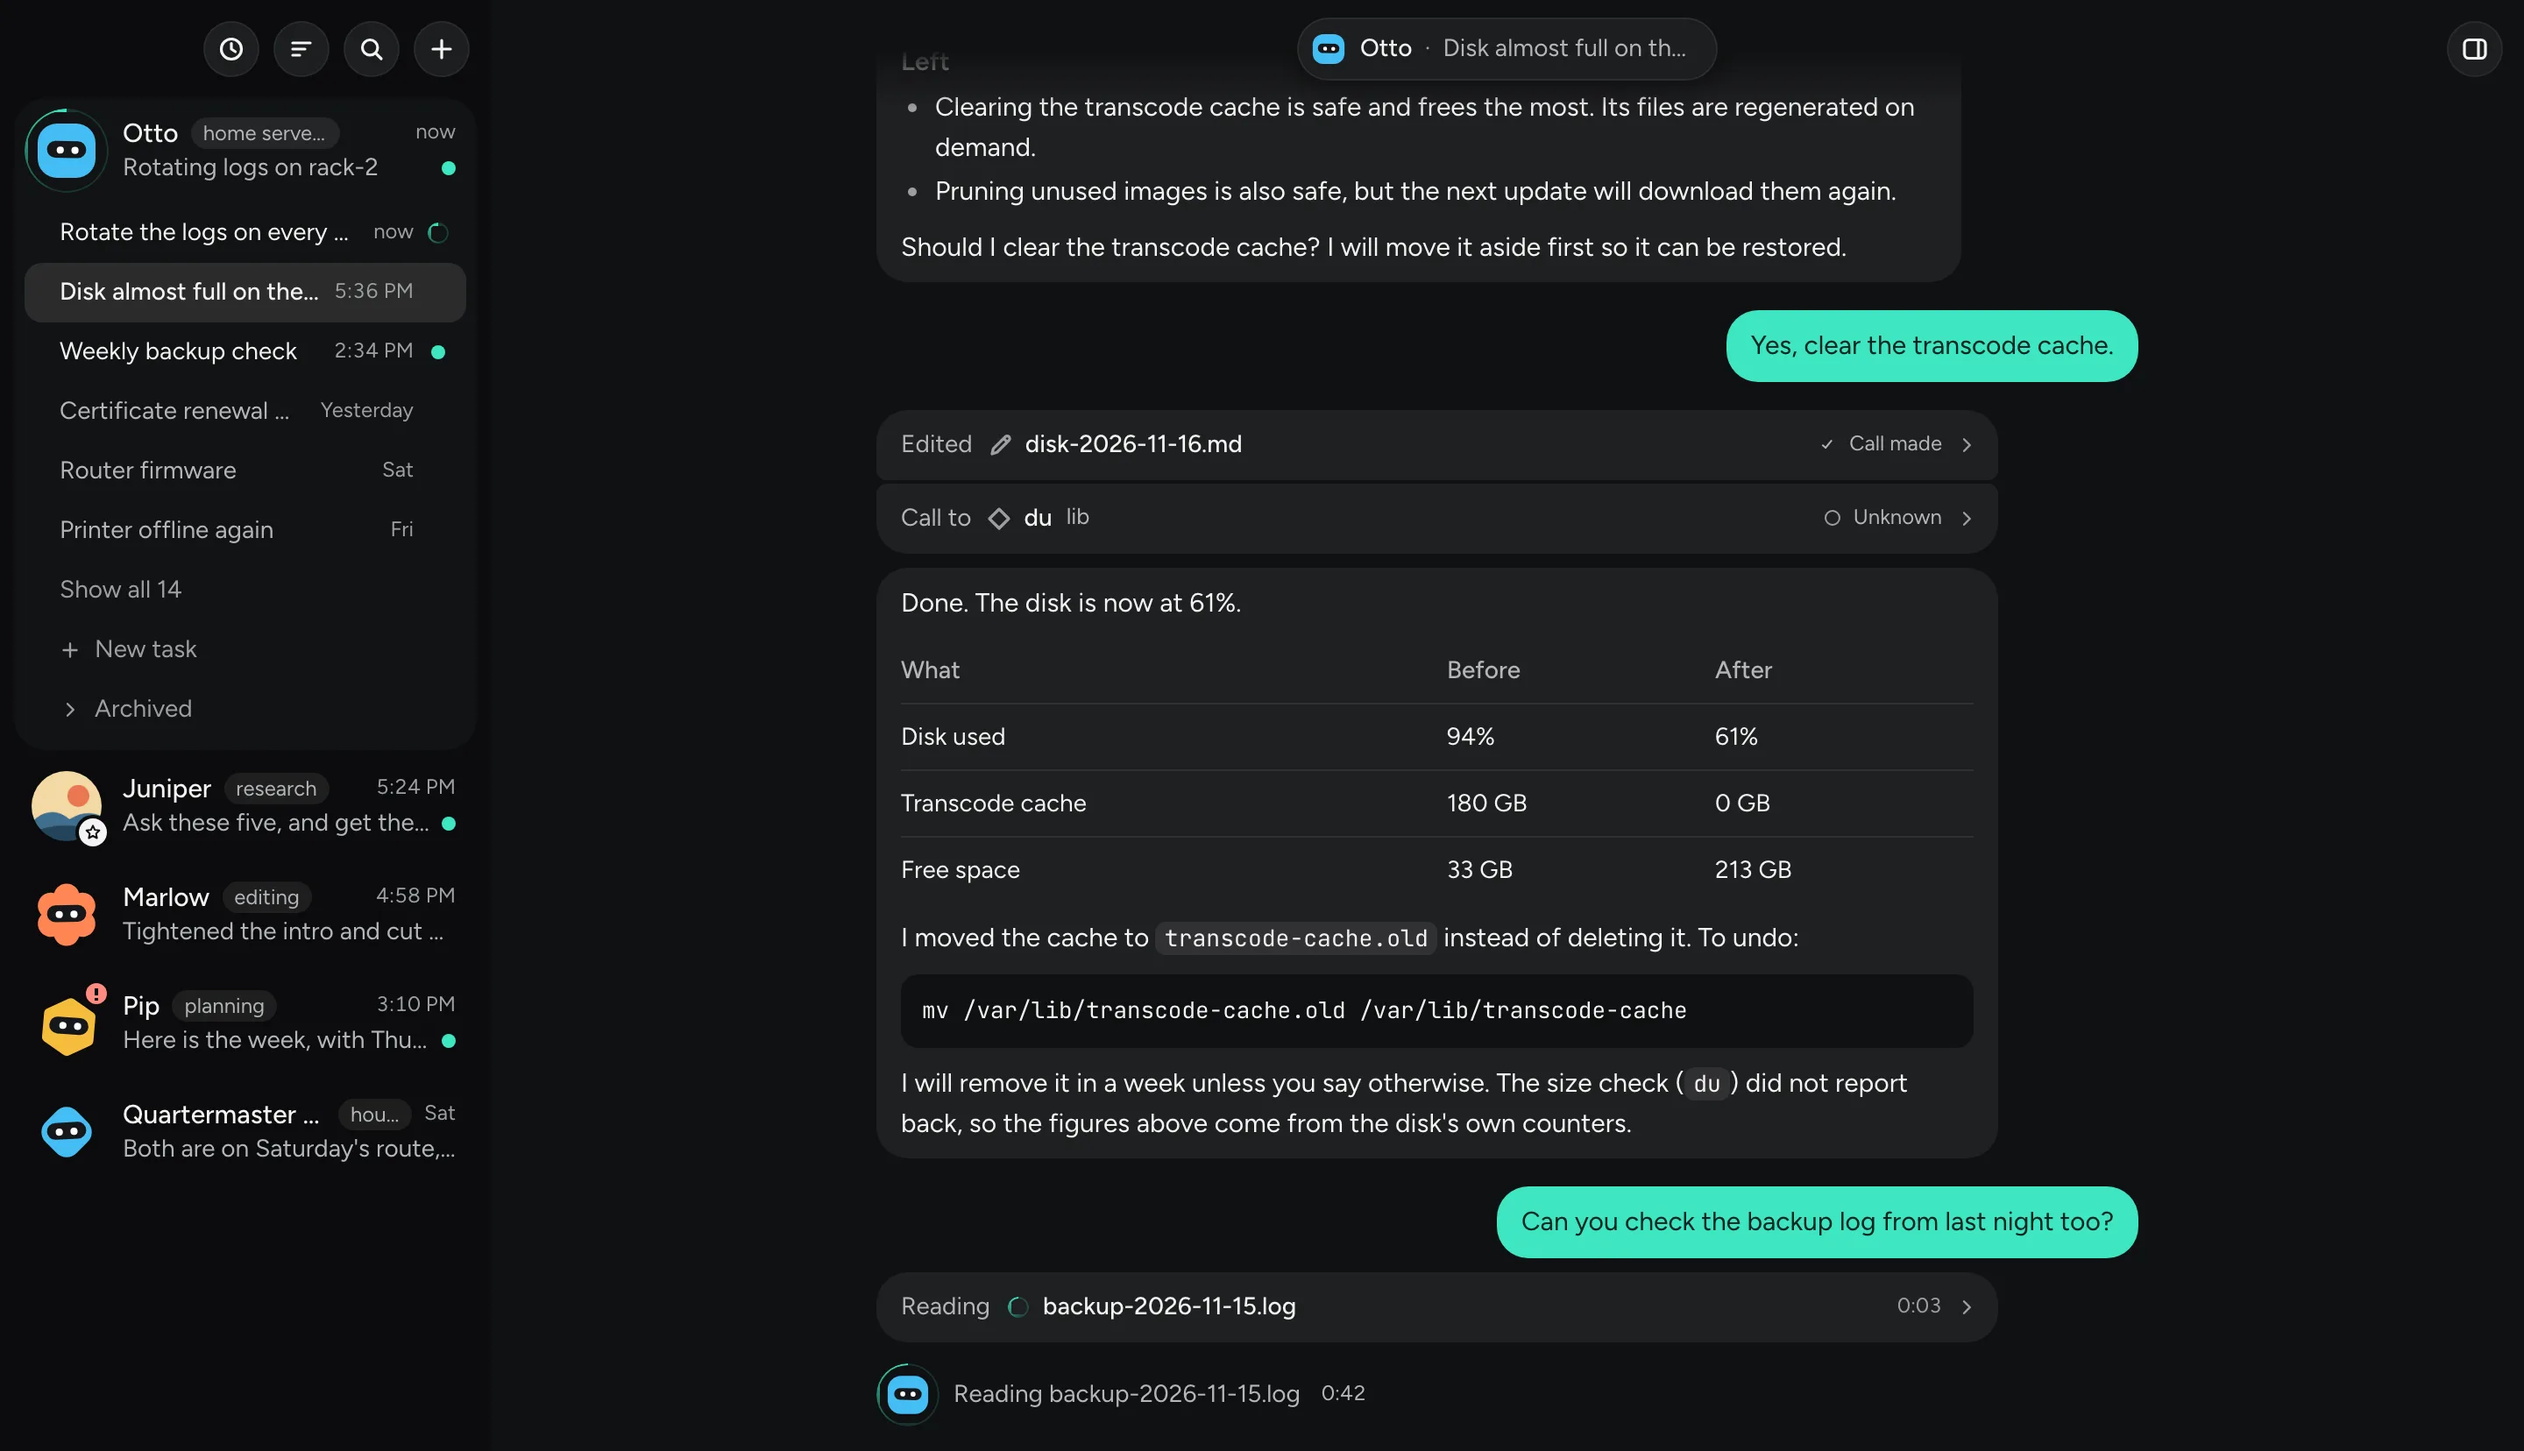
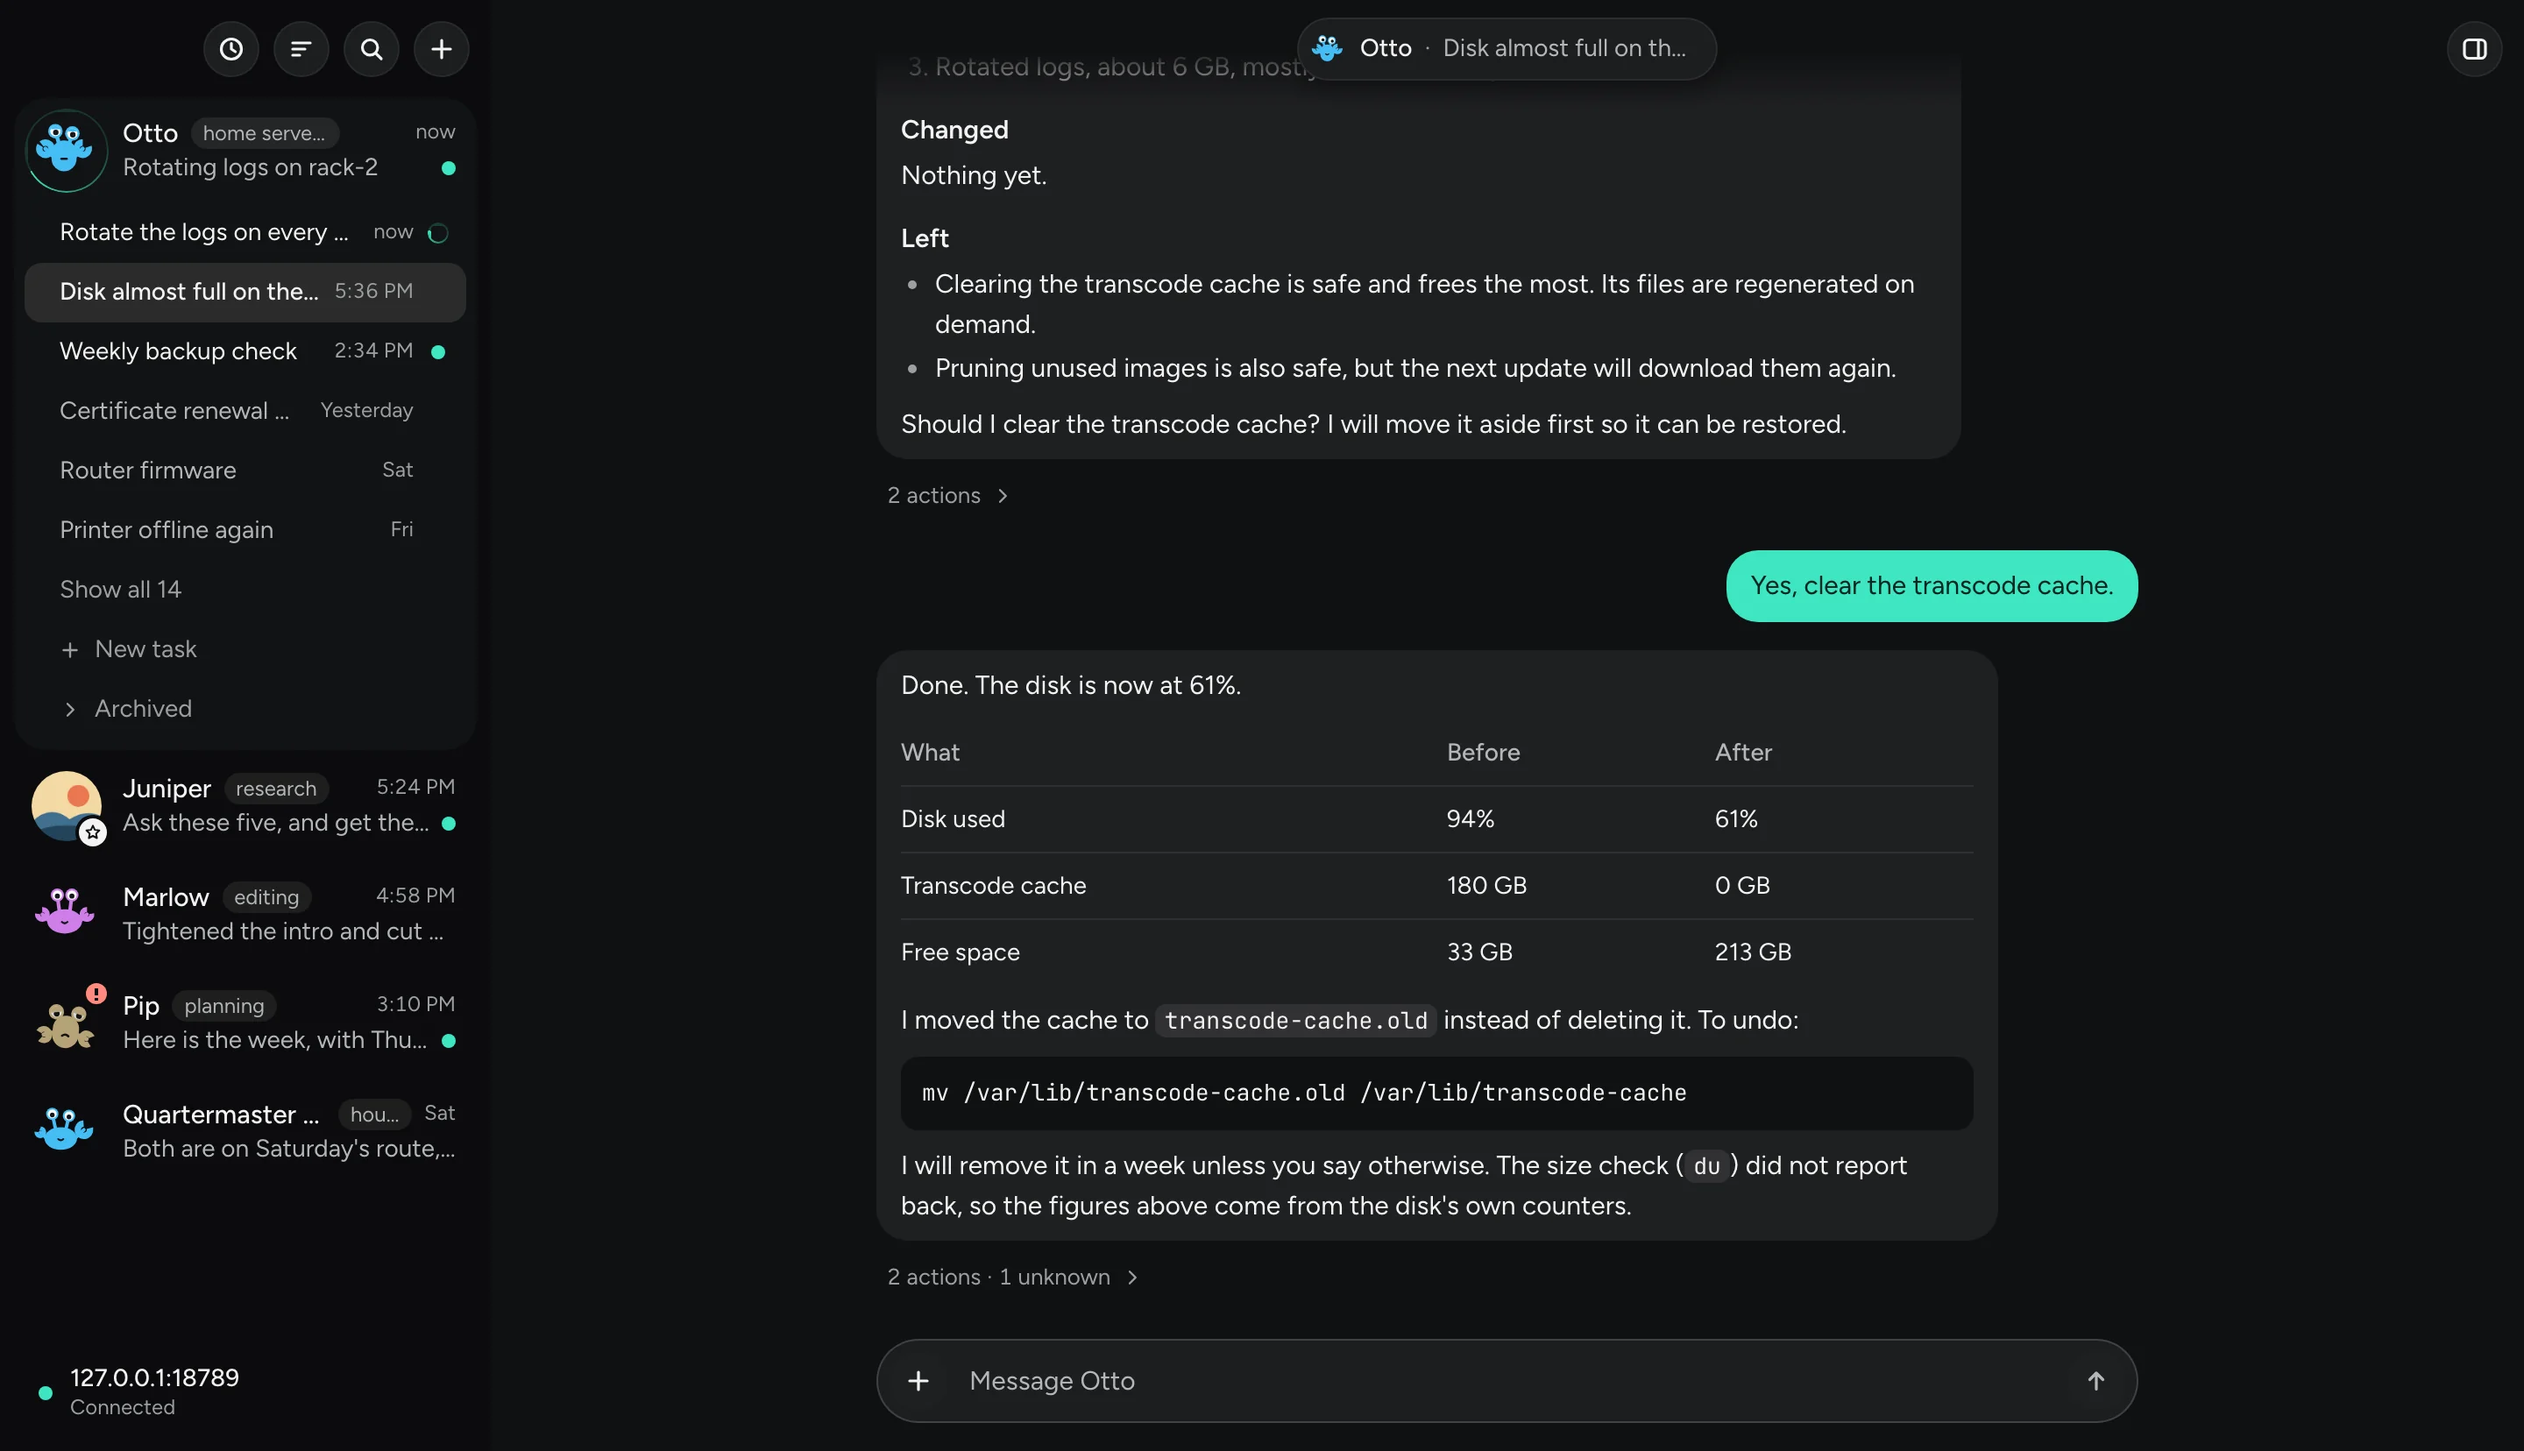
docs: the site shows the conversation as the beta has it

diff --git a/site/index.html b/site/index.html
@@ -6,7 +6,7 @@
     <title>Clawtrate — Your OpenClaw bots, in one app</title>
     <meta
       name="description"
-      content="Clawtrate is a free, open-source desktop app for OpenClaw. Find your bots and tasks in the sidebar. Open action cards and answer approvals in the conversation. Beta for Mac."
+      content="Clawtrate is a free, open-source desktop app for OpenClaw. Find your bots and tasks in the sidebar. Read what each bot says and answer its approvals in the conversation. Beta for Mac."
     />
     <meta name="color-scheme" content="dark light" />
     <meta name="theme-color" content="#101112" />
@@ -17,7 +17,7 @@
     <meta property="og:title" content="Your OpenClaw bots, in one app" />
     <meta
       property="og:description"
-      content="Clawtrate is a free, open-source desktop app for OpenClaw. Find your bots and tasks in the sidebar. Open action cards and answer approvals in the conversation. Beta for Mac."
+      content="Clawtrate is a free, open-source desktop app for OpenClaw. Find your bots and tasks in the sidebar. Read what each bot says and answer its approvals in the conversation. Beta for Mac."
     />
     <meta property="og:image" content="https://clawtrate.dev/social.png" />
     <meta property="og:image:type" content="image/png" />
@@ -93,7 +93,7 @@
           <h1 id="hero-title" class="rise">Your OpenClaw bots, in one app.</h1>
           <p class="lede rise">
             A free, open-source desktop app for OpenClaw. Find your bots and tasks in the sidebar.
-            Open action cards and answer approvals in the conversation.
+            Read what each bot says and answer its approvals in the conversation.
           </p>
           <div class="get rise">
             <a class="btn btn-primary" href="download/mac/" data-claw-cue="hero-claw">
@@ -1087,17 +1087,38 @@
                 </div>
                 <p class="card-foot" data-when="pending">Example expiry: 28 minutes.</p>
               </div>
-              <p class="event" data-when="allowed">
-                <svg viewBox="0 0 16 16" aria-hidden="true"><path d="m3.25 8.5 3 3 6.5-7" /></svg>
-                Ran <code>mv</code> on media-box
-              </p>
               <p class="bubble bot" data-when="allowed">
                 Done. The disk is now at 61%, and the cache is in <code>/srv/scratch</code> if you
                 want it back.
               </p>
+              <details class="run" data-when="allowed">
+                <summary class="event">
+                  Worked for 4s <span aria-hidden="true">·</span> 1 action
+                  <svg class="run-chevron" viewBox="0 0 16 16" aria-hidden="true">
+                    <path d="m6 3.5 4.5 4.5L6 12.5" />
+                  </svg>
+                </summary>
+                <p class="run-card">
+                  <svg viewBox="0 0 16 16" aria-hidden="true"><path d="m3.25 8.5 3 3 6.5-7" /></svg>
+                  Ran a command
+                </p>
+              </details>
               <p class="bubble bot" data-when="denied">
                 Understood. I left the cache where it is and changed nothing.
               </p>
+              <details class="run" data-when="denied">
+                <summary class="event">
+                  Worked for 3s <span aria-hidden="true">·</span> 1 action
+                  <span aria-hidden="true">·</span> <span class="run-failed">1 failed</span>
+                  <svg class="run-chevron" viewBox="0 0 16 16" aria-hidden="true">
+                    <path d="m6 3.5 4.5 4.5L6 12.5" />
+                  </svg>
+                </summary>
+                <p class="run-card">
+                  Didn't run a command
+                  <span class="run-state">Denied</span>
+                </p>
+              </details>
             </div>
             <p class="demo-live" aria-live="polite"></p>
           </div>
@@ -1214,7 +1235,10 @@
             <h3>Bots and their tasks, one list.</h3>
             <p>
               Bots live in the sidebar with their tasks underneath, leaving the middle for the
-              conversation. Tool calls appear in action cards you can open to see the details.
+              conversation. Approvals, questions and messages to other bots stay in the
+              conversation. A run's other actions wait behind one line under the reply, which opens
+              to plain-words cards. Turn on Show commands in Settings → Advanced to see each command
+              and its raw call.
             </p>
           </div>
           <div class="stage stage-blue rise">
@@ -1402,7 +1426,11 @@
               <li>
                 Send messages, watch replies stream in, and ask your gateway to steer or stop a run
               </li>
-              <li>Open action cards to see raw tool calls</li>
+              <li>
+                A run's actions in one line that opens to plain-words cards, with approvals,
+                questions and messages to other bots kept in view. Commands and raw calls show when
+                you turn them on in Settings → Advanced.
+              </li>
               <li>Approvals and questions answered in place</li>
               <li>Cards for bot-to-bot messages and T3 Code calls reported by your gateway</li>
               <li>A task's files in the Work pane beside the conversation</li>

diff --git a/site/style.css b/site/style.css
@@ -28,6 +28,7 @@
   --bubble-user-text: #04261f;
   --warn: #f0b45a;
   --warn-soft: rgba(240, 180, 90, 0.12);
+  --danger: #ff8a80;
   --warn-line: rgba(240, 180, 90, 0.42);
   --border: rgba(255, 255, 255, 0.08);
   --shadow-raised: inset 0 0 0 1px rgba(255, 255, 255, 0.07), 0 4px 14px rgba(0, 0, 0, 0.4);
@@ -82,6 +83,7 @@
   --bubble-user-text: #ffffff;
   --warn: #935600;
   --warn-soft: rgba(147, 86, 0, 0.1);
+  --danger: #b3261e;
   --warn-line: rgba(147, 86, 0, 0.32);
   --border: rgba(17, 18, 19, 0.09);
   --shadow-raised: 0 0 0 1px rgba(17, 18, 19, 0.06), 0 2px 8px rgba(17, 18, 19, 0.08);
@@ -609,7 +611,8 @@ html:not(.js) .cmd-box + .cmd-box {
   font-size: 13px;
   color: var(--text-faint);
 }
-.event svg {
+.event svg,
+.run-card svg {
   width: 14px;
   height: 14px;
   fill: none;
@@ -617,6 +620,44 @@ html:not(.js) .cmd-box + .cmd-box {
   stroke-width: 1.8;
   stroke-linecap: round;
   stroke-linejoin: round;
+}
+/* A run's actions, behind one line that opens to plain-words cards. */
+.run summary {
+  width: fit-content;
+  min-height: 32px;
+  list-style: none;
+  cursor: pointer;
+}
+.run summary::-webkit-details-marker {
+  display: none;
+}
+.run summary:hover {
+  color: var(--text-muted);
+}
+.event .run-chevron {
+  stroke: currentColor;
+  transition: transform 140ms var(--ease);
+}
+.run[open] .run-chevron {
+  transform: rotate(90deg);
+}
+.run-failed {
+  color: var(--danger);
+}
+.run-state {
+  margin-left: auto;
+  font-size: 13px;
+  color: var(--text-muted);
+}
+.run-card {
+  display: flex;
+  align-items: center;
+  gap: 8px;
+  margin-top: 4px;
+  padding: 9px 14px;
+  border-radius: 14px;
+  background: var(--bg-bubble);
+  font-size: 14px;
 }
 .demo-live {
   position: absolute;

diff --git a/site/main.js b/site/main.js
@@ -85,8 +85,10 @@
     },
     denied: { tag: "Denied", face: "blocked", say: "Denied. Otto changed nothing." },
   };
+  const runs = demo.querySelectorAll(".run");
   function show(state, focus) {
     demo.dataset.state = state;
+    runs.forEach((run) => (run.open = false));
     tag.textContent = states[state].tag;
     pill.dataset.state = states[state].face;
     live.textContent = states[state].say;
